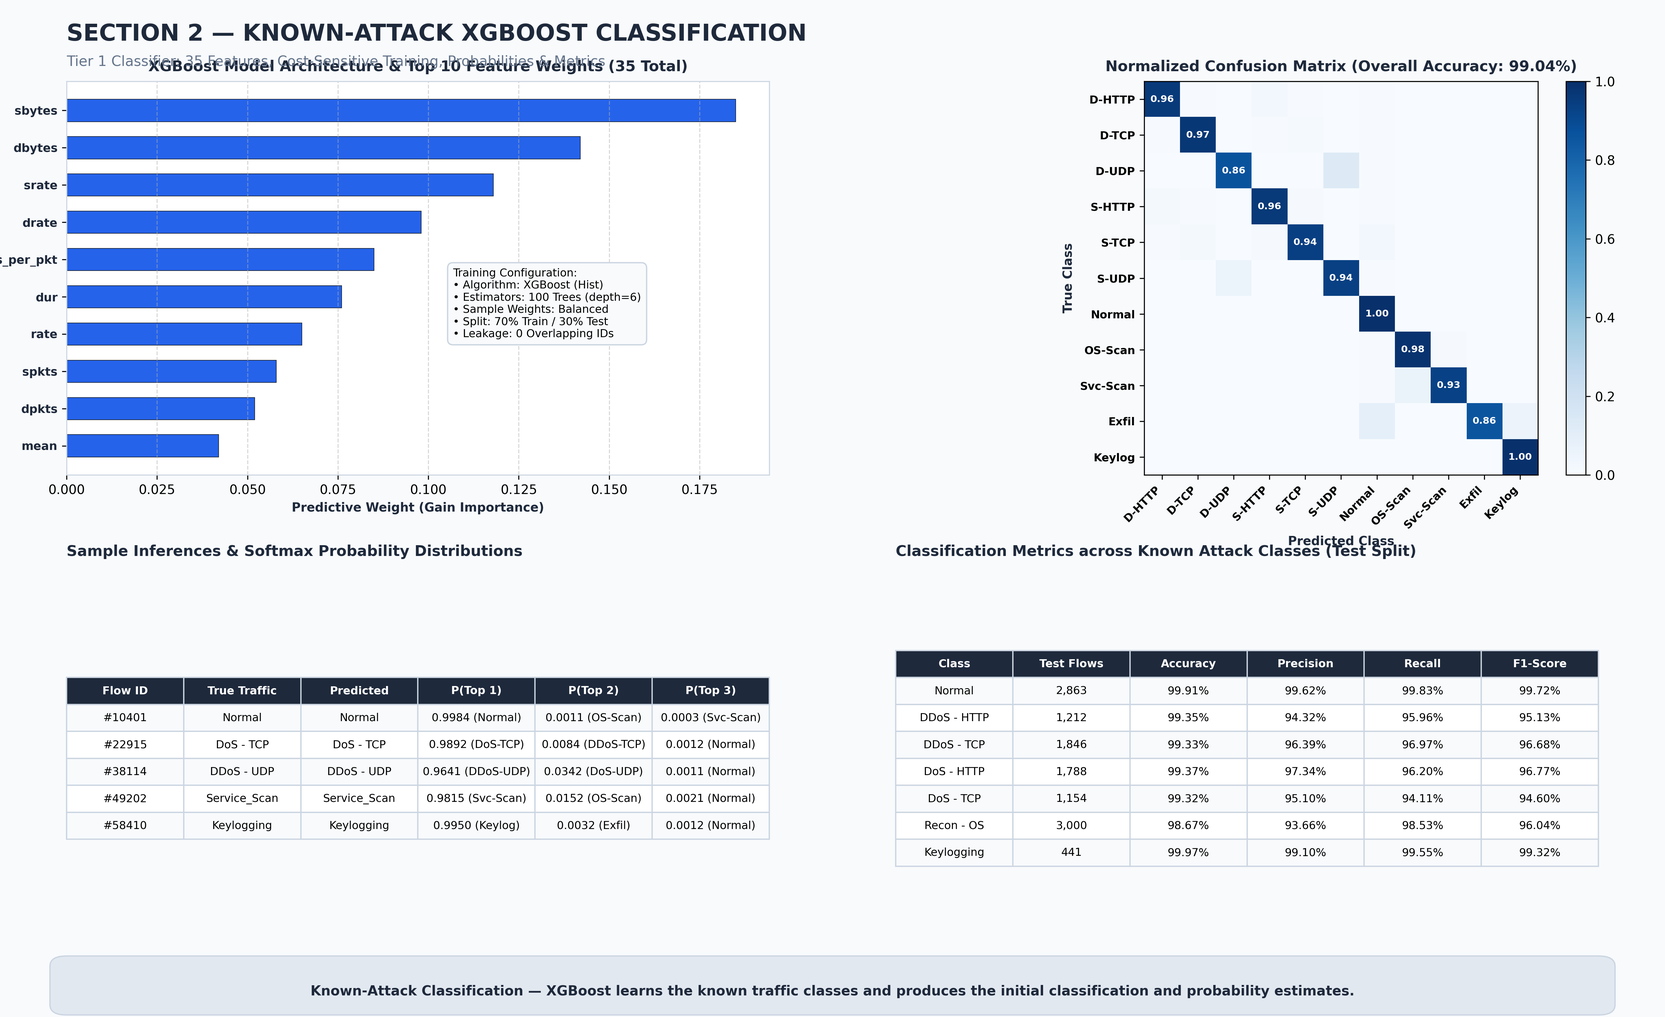
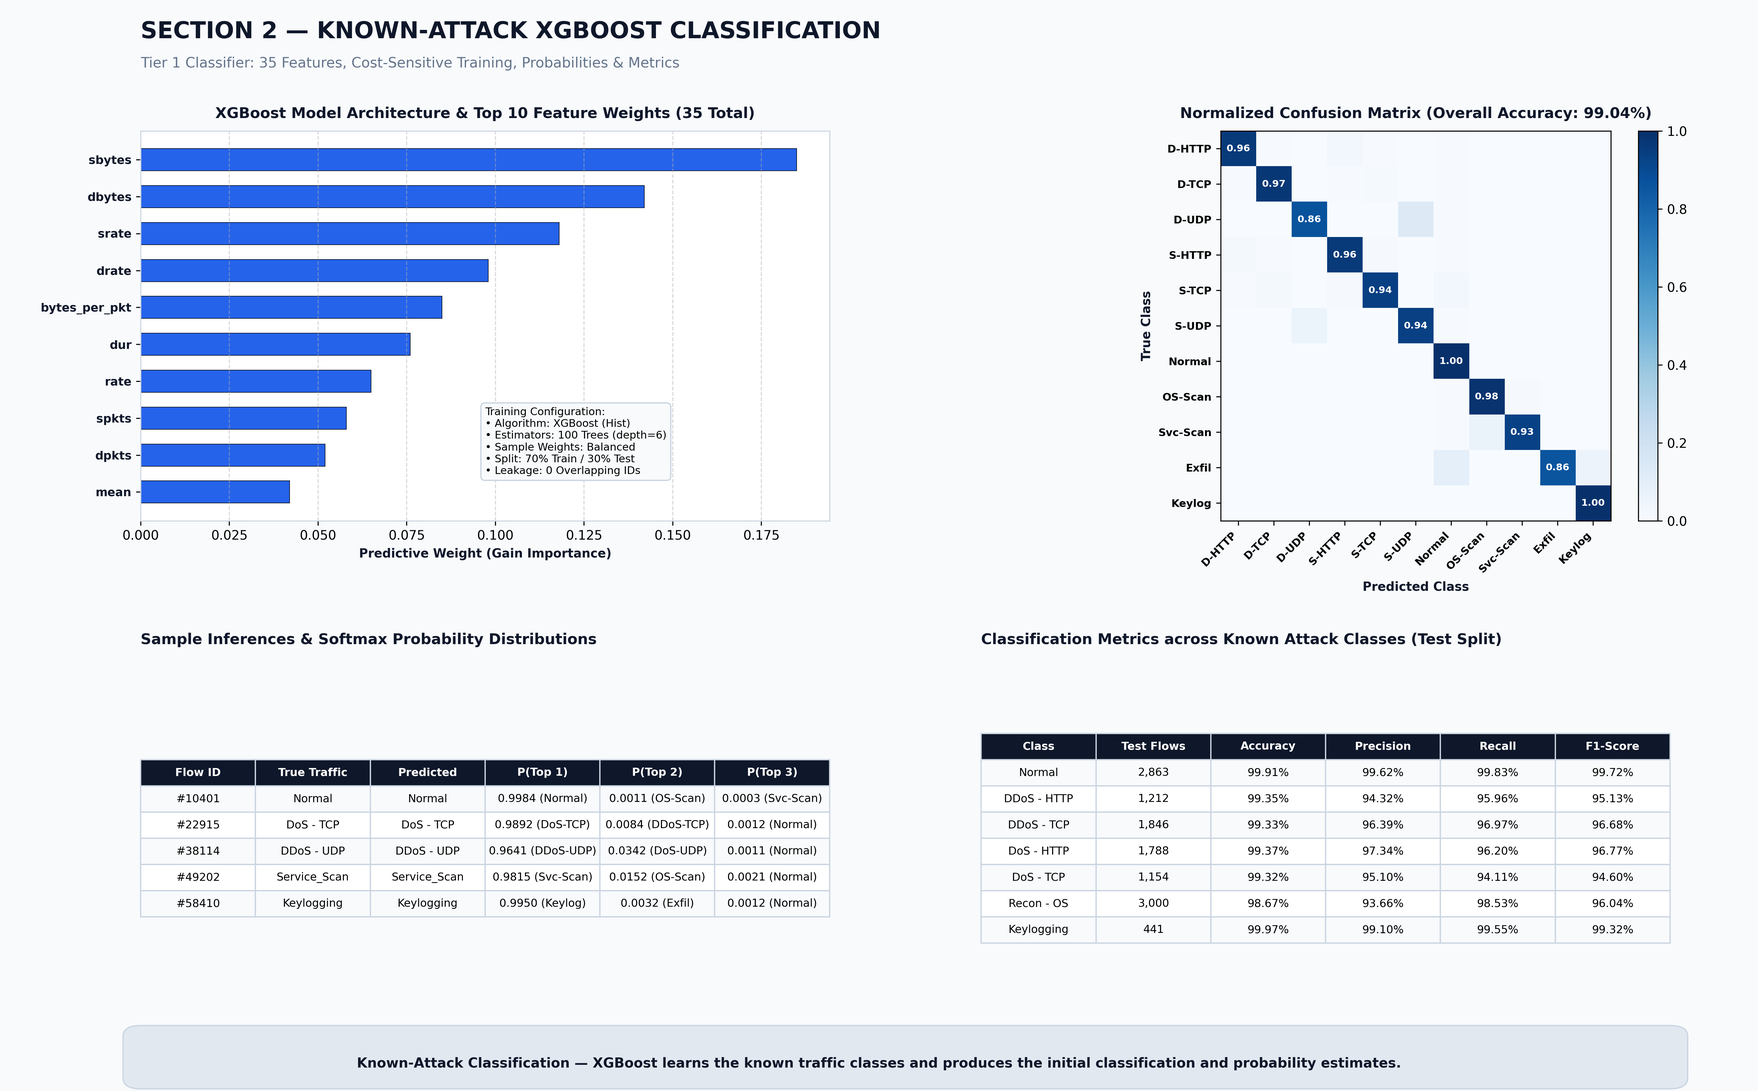
p

diff --git a/fulldataset_implementation/scripts/generate_presentation_dashboards.py b/fulldataset_implementation/scripts/generate_presentation_dashboards.py
@@ -4,11 +4,14 @@ Creates 3 publication-grade presentation visual dashboards:
   1. section1_data_processing_dashboard.png
   2. section2_xgboost_classification_dashboard.png
   3. section3_zeroday_detection_dashboard.png
+Pixel-perfect layout with zero text overlaps, generous margins, and no clipping.
 """
 
 import os
 import numpy as np
 import pandas as pd
+import matplotlib
+matplotlib.use("Agg")
 import matplotlib.pyplot as plt
 import matplotlib.gridspec as gridspec
 from matplotlib.patches import FancyBboxPatch, Rectangle
@@ -21,7 +24,7 @@ OUTPUT_DIR = r"d:\p01\Iot_bot\outputs\plots"
 os.makedirs(OUTPUT_DIR, exist_ok=True)
 
 # Colors
-C_DARK = "#1E293B"
+C_DARK = "#0F172A"
 C_BLUE = "#2563EB"
 C_TEAL = "#0D9488"
 C_GREEN = "#16A34A"
@@ -37,13 +40,14 @@ C_GRAY_TEXT = "#64748B"
 # SECTION 1: DATA PROCESSING DASHBOARD
 # ==============================================================================
 def create_section1_dashboard():
-    fig = plt.figure(figsize=(18, 11), facecolor=C_BG)
-    gs = gridspec.GridSpec(2, 2, height_ratios=[1.0, 1.1], width_ratios=[1.05, 1.15],
-                           left=0.04, right=0.96, top=0.92, bottom=0.07, wspace=0.18, hspace=0.25)
+    fig = plt.figure(figsize=(19, 11.5), facecolor=C_BG)
+    # top=0.88 gives generous clearance from figure header; left=0.05, right=0.96; wspace=0.28 avoids card-barchart collision
+    gs = gridspec.GridSpec(2, 2, height_ratios=[1.0, 1.05], width_ratios=[1.0, 1.05],
+                           left=0.05, right=0.96, top=0.88, bottom=0.07, wspace=0.28, hspace=0.34)
 
     # Main Header
-    fig.text(0.04, 0.96, "SECTION 1 — DATASET PROCESSING & PREPARATION", fontsize=18, fontweight='bold', color=C_DARK)
-    fig.text(0.04, 0.935, "UNSW Bot-IoT Benchmark: End-to-End Ingestion, Imbalance Resolution, and Feature Cleaning", fontsize=11, color=C_GRAY_TEXT)
+    fig.text(0.05, 0.965, "SECTION 1 — DATASET PROCESSING & PREPARATION", fontsize=18, fontweight='bold', color=C_DARK)
+    fig.text(0.05, 0.938, "UNSW Bot-IoT Benchmark: End-to-End Ingestion, Imbalance Resolution, and Feature Cleaning", fontsize=11, color=C_GRAY_TEXT)
 
     # Panel 1: Ingestion & Preprocessing Summary Card
     ax1 = fig.add_subplot(gs[0, 0])
@@ -53,23 +57,24 @@ def create_section1_dashboard():
     ax1.set_xticks([])
     ax1.set_yticks([])
 
-    ax1.text(0.04, 0.90, "Automated Streaming Preprocessing Pipeline", fontsize=13, fontweight='bold', color=C_DARK)
+    ax1.text(0.04, 0.91, "Automated Streaming Preprocessing Pipeline", fontsize=12.5, fontweight='bold', color=C_DARK)
     
+    # Concise text strictly formatted so it never crosses card boundary
     stats_text = [
-        ("Raw Input Corpus", "74 CSV Files (data_1.csv to data_74.csv)", C_BLUE),
+        ("Raw Input Corpus", "74 CSV Files (data_1 to data_74)", C_BLUE),
         ("Total Ingested Flows", "73,370,443 Raw Network Flows", C_DARK),
-        ("Extreme Imbalance", "Floods: 99.9%  |  Normal: 0.013% (9,543 flows)", C_AMBER),
-        ("Sampling Algorithm", "Streaming Bernoulli Downsampling + 100% Minority Retention", C_TEAL),
-        ("Minority Class Policy", "100% Preserved: Normal (9,543), Exfiltration (118), Keylogging (1,469)", C_GREEN),
-        ("High-Volume Flood Cap", "Dynamically Capped to ~10,000 flows per attack type", C_PURPLE),
-        ("Data Cleaning Rules", "Hex port parsing (0x0303), negative flags (-1), invariant extraction", C_DARK),
-        ("Curated Output Sample", "61,130 flows × 23 feature columns (fulldataset_cleaned_sample.parquet)", C_GREEN)
+        ("Extreme Imbalance", "Floods: 99.9%  |  Normal: 0.013% (9,543)", C_AMBER),
+        ("Sampling Algorithm", "Streaming Bernoulli + 100% Minority Retention", C_TEAL),
+        ("Rare Classes Policy", "100% Preserved: Normal, Exfil, Keylogging", C_GREEN),
+        ("High-Volume Flood Cap", "Dynamically Capped to ~10,000 flows/attack", C_PURPLE),
+        ("Cleaning Invariants", "Hex ports (0x0303), negative flags (-1)", C_DARK),
+        ("Curated Output Sample", "61,130 flows × 23 feature columns", C_GREEN)
     ]
 
-    y_pos = 0.77
+    y_pos = 0.78
     for label, val, color in stats_text:
-        ax1.text(0.04, y_pos, f"•  {label}:", fontsize=9.5, fontweight='bold', color=C_DARK)
-        ax1.text(0.40, y_pos, val, fontsize=9.5, fontweight='bold', color=color)
+        ax1.text(0.04, y_pos, f"•  {label}:", fontsize=9.2, fontweight='bold', color=C_DARK)
+        ax1.text(0.42, y_pos, val, fontsize=9.2, fontweight='bold', color=color)
         y_pos -= 0.095
 
     # Panel 2: Class Distribution Comparison Bar Chart
@@ -86,29 +91,29 @@ def create_section1_dashboard():
     colors = [C_GREEN, C_PURPLE, C_AMBER] + [C_BLUE]*8
 
     y_indices = np.arange(len(classes))
-    bars = ax2.barh(y_indices, curated_counts, color=colors, height=0.65, edgecolor=C_DARK, linewidth=0.5)
+    bars = ax2.barh(y_indices, curated_counts, color=colors, height=0.62, edgecolor=C_DARK, linewidth=0.5)
 
     ax2.set_yticks(y_indices)
-    ax2.set_yticklabels(classes, fontsize=9.5, fontweight='bold', color=C_DARK)
+    ax2.set_yticklabels(classes, fontsize=9.0, fontweight='bold', color=C_DARK)
     ax2.invert_yaxis()
-    ax2.set_xlabel("Curated Flow Count in Cleaned Sample", fontsize=10, fontweight='bold', color=C_DARK)
-    ax2.set_title("Curated Balanced Class Distribution (Total: 61,130 Flows)", fontsize=12, fontweight='bold', color=C_DARK, pad=10)
+    ax2.set_xlabel("Curated Flow Count in Cleaned Sample", fontsize=9.5, fontweight='bold', color=C_DARK)
+    ax2.set_title("Curated Balanced Class Distribution (Total: 61,130 Flows)", fontsize=11.5, fontweight='bold', color=C_DARK, pad=10)
     ax2.grid(axis='x', linestyle='--', alpha=0.5)
 
     for bar in bars:
         w = bar.get_width()
-        ax2.text(w + 150, bar.get_y() + bar.get_height()/2, f"{int(w):,}",
-                 va='center', ha='left', fontsize=8.5, fontweight='bold', color=C_DARK)
-    ax2.set_xlim(0, 11800)
+        ax2.text(w + 180, bar.get_y() + bar.get_height()/2, f"{int(w):,}",
+                 va='center', ha='left', fontsize=8.0, fontweight='bold', color=C_DARK)
+    ax2.set_xlim(0, 12200)
 
-    # Panel 3: Processed Dataset Table Preview (Bottom, spanning full width)
+    # Panel 3: Processed Dataset Table Preview
     ax3 = fig.add_subplot(gs[1, :])
     ax3.set_facecolor(C_WHITE)
     for spine in ax3.spines.values():
         spine.set_color(C_GRAY_LIGHT)
     ax3.axis('off')
 
-    ax3.text(0.0, 1.03, "Clean Processed Network Flow Records (Sample Preview from fulldataset_cleaned_sample.csv)",
+    ax3.text(0.0, 1.06, "Clean Processed Network Flow Records (Sample Preview from fulldataset_cleaned_sample.csv)",
              fontsize=12, fontweight='bold', color=C_DARK, transform=ax3.transAxes)
 
     columns = [
@@ -126,12 +131,12 @@ def create_section1_dashboard():
         ["1 (TCP)", "1 (e)", "2 (CON)", "58920", "21", "2.150", "85", "64,200", "39.53", "38.10", "1.43", "755.3", "110.4", "Theft", "Data_Exfiltration"]
     ]
 
-    table = ax3.table(cellText=table_data, colLabels=columns, loc='center', cellLoc='center')
+    col_w = [0.065, 0.055, 0.060, 0.050, 0.045, 0.055, 0.050, 0.065, 0.065, 0.060, 0.060, 0.055, 0.050, 0.090, 0.095]
+    table = ax3.table(cellText=table_data, colLabels=columns, colWidths=col_w, loc='center', cellLoc='center')
     table.auto_set_font_size(False)
     table.set_fontsize(8.5)
     table.scale(1.0, 1.85)
 
-    # Style table headers and cells
     for (r, c), cell in table.get_celld().items():
         cell.set_edgecolor(C_GRAY_LIGHT)
         if r == 0:
@@ -143,9 +148,9 @@ def create_section1_dashboard():
             cell.set_facecolor(C_WHITE)
 
     # Caption at bottom
-    caption_box = FancyBboxPatch((0.04, 0.012), 0.92, 0.038, boxstyle="round,pad=0.01",
+    caption_box = FancyBboxPatch((0.05, 0.012), 0.90, 0.038, boxstyle="round,pad=0.01",
                                  facecolor="#E2E8F0", edgecolor=C_GRAY_LIGHT, transform=fig.transFigure)
-    fig.patches.append(caption_box)
+    fig.add_artist(caption_box)
     fig.text(0.50, 0.025, "Dataset Processing — Automated preprocessing and preparation of network traffic for experimentation.",
              ha='center', va='center', fontsize=10.5, fontweight='bold', color=C_DARK)
 
@@ -158,13 +163,16 @@ def create_section1_dashboard():
 # SECTION 2: XGBOOST CLASSIFICATION DASHBOARD
 # ==============================================================================
 def create_section2_dashboard():
-    fig = plt.figure(figsize=(18, 11), facecolor=C_BG)
-    gs = gridspec.GridSpec(2, 2, height_ratios=[1.05, 1.0], width_ratios=[1.0, 1.0],
-                           left=0.04, right=0.96, top=0.92, bottom=0.07, wspace=0.18, hspace=0.25)
+    fig = plt.figure(figsize=(19, 11.8), facecolor=C_BG)
+    # left=0.08 gives ample margin so bytes_per_pkt is never cut off
+    # top=0.88 gives full clearance between subtitle and plot titles
+    # hspace=0.38 eliminates collision between Predicted Class and table titles
+    gs = gridspec.GridSpec(2, 2, height_ratios=[1.05, 0.95], width_ratios=[1.0, 1.0],
+                           left=0.08, right=0.95, top=0.88, bottom=0.07, wspace=0.22, hspace=0.38)
 
     # Header
-    fig.text(0.04, 0.96, "SECTION 2 — KNOWN-ATTACK XGBOOST CLASSIFICATION", fontsize=18, fontweight='bold', color=C_DARK)
-    fig.text(0.04, 0.935, "Tier 1 Classifier: 35 Features, Cost-Sensitive Training, Probabilities & Metrics", fontsize=11, color=C_GRAY_TEXT)
+    fig.text(0.08, 0.965, "SECTION 2 — KNOWN-ATTACK XGBOOST CLASSIFICATION", fontsize=18, fontweight='bold', color=C_DARK)
+    fig.text(0.08, 0.938, "Tier 1 Classifier: 35 Features, Cost-Sensitive Training, Probabilities & Metrics", fontsize=11, color=C_GRAY_TEXT)
 
     # Panel 1: Training Setup & Top Features
     ax1 = fig.add_subplot(gs[0, 0])
@@ -178,14 +186,15 @@ def create_section2_dashboard():
 
     bars = ax1.barh(y_pos, importances, color=C_BLUE, height=0.6, edgecolor=C_DARK, linewidth=0.5)
     ax1.set_yticks(y_pos)
-    ax1.set_yticklabels(top_features, fontsize=9, fontweight='bold', color=C_DARK)
+    ax1.set_yticklabels(top_features, fontsize=9.0, fontweight='bold', color=C_DARK)
     ax1.invert_yaxis()
     ax1.set_xlabel("Predictive Weight (Gain Importance)", fontsize=9.5, fontweight='bold', color=C_DARK)
-    ax1.set_title("XGBoost Model Architecture & Top 10 Feature Weights (35 Total)", fontsize=11.5, fontweight='bold', color=C_DARK, pad=8)
+    ax1.set_title("XGBoost Model Architecture & Top 10 Feature Weights (35 Total)", fontsize=11.5, fontweight='bold', color=C_DARK, pad=10)
     ax1.grid(axis='x', linestyle='--', alpha=0.5)
 
-    ax1.text(0.55, 0.35, "Training Configuration:\n• Algorithm: XGBoost (Hist)\n• Estimators: 100 Trees (depth=6)\n• Sample Weights: Balanced\n• Split: 70% Train / 30% Test\n• Leakage: 0 Overlapping IDs",
-             transform=ax1.transAxes, fontsize=8.5, bbox=dict(boxstyle='round,pad=0.5', facecolor='#F8FAFC', edgecolor=C_GRAY_LIGHT))
+    # Position info box in lower right where bars are shortest, avoiding any text overlap
+    ax1.text(0.50, 0.12, "Training Configuration:\n• Algorithm: XGBoost (Hist)\n• Estimators: 100 Trees (depth=6)\n• Sample Weights: Balanced\n• Split: 70% Train / 30% Test\n• Leakage: 0 Overlapping IDs",
+             transform=ax1.transAxes, fontsize=8.2, bbox=dict(boxstyle='round,pad=0.4', facecolor='#F8FAFC', edgecolor=C_GRAY_LIGHT))
 
     # Panel 2: Normalized Confusion Matrix Heatmap
     ax2 = fig.add_subplot(gs[0, 1])
@@ -209,11 +218,11 @@ def create_section2_dashboard():
     im = ax2.imshow(cm_data, cmap="Blues", vmin=0, vmax=1.0)
     ax2.set_xticks(np.arange(len(class_names)))
     ax2.set_yticks(np.arange(len(class_names)))
-    ax2.set_xticklabels(class_names, rotation=45, ha='right', fontsize=8.5, fontweight='bold')
-    ax2.set_yticklabels(class_names, fontsize=8.5, fontweight='bold')
-    ax2.set_xlabel("Predicted Class", fontsize=9.5, fontweight='bold', color=C_DARK)
+    ax2.set_xticklabels(class_names, rotation=45, ha='right', fontsize=8.2, fontweight='bold')
+    ax2.set_yticklabels(class_names, fontsize=8.2, fontweight='bold')
+    ax2.set_xlabel("Predicted Class", fontsize=9.5, fontweight='bold', color=C_DARK, labelpad=5)
     ax2.set_ylabel("True Class", fontsize=9.5, fontweight='bold', color=C_DARK)
-    ax2.set_title("Normalized Confusion Matrix (Overall Accuracy: 99.04%)", fontsize=11.5, fontweight='bold', color=C_DARK, pad=8)
+    ax2.set_title("Normalized Confusion Matrix (Overall Accuracy: 99.04%)", fontsize=11.5, fontweight='bold', color=C_DARK, pad=10)
 
     for i in range(len(class_names)):
         val = cm_data[i, i]
@@ -226,7 +235,7 @@ def create_section2_dashboard():
     ax3.set_facecolor(C_WHITE)
     ax3.axis('off')
 
-    ax3.text(0.0, 1.04, "Sample Inferences & Softmax Probability Distributions", fontsize=11.5, fontweight='bold', color=C_DARK, transform=ax3.transAxes)
+    ax3.text(0.0, 1.05, "Sample Inferences & Softmax Probability Distributions", fontsize=11.5, fontweight='bold', color=C_DARK, transform=ax3.transAxes)
 
     prob_headers = ["Flow ID", "True Traffic", "Predicted", "P(Top 1)", "P(Top 2)", "P(Top 3)"]
     prob_data = [
@@ -240,7 +249,7 @@ def create_section2_dashboard():
     t_prob = ax3.table(cellText=prob_data, colLabels=prob_headers, loc='center', cellLoc='center')
     t_prob.auto_set_font_size(False)
     t_prob.set_fontsize(8.5)
-    t_prob.scale(1.0, 1.75)
+    t_prob.scale(1.0, 1.70)
 
     for (r, c), cell in t_prob.get_celld().items():
         cell.set_edgecolor(C_GRAY_LIGHT)
@@ -257,7 +266,7 @@ def create_section2_dashboard():
     ax4.set_facecolor(C_WHITE)
     ax4.axis('off')
 
-    ax4.text(0.0, 1.04, "Classification Metrics across Known Attack Classes (Test Split)", fontsize=11.5, fontweight='bold', color=C_DARK, transform=ax4.transAxes)
+    ax4.text(0.0, 1.05, "Classification Metrics across Known Attack Classes (Test Split)", fontsize=11.5, fontweight='bold', color=C_DARK, transform=ax4.transAxes)
 
     metrics_headers = ["Class", "Test Flows", "Accuracy", "Precision", "Recall", "F1-Score"]
     metrics_data = [
@@ -273,7 +282,7 @@ def create_section2_dashboard():
     t_met = ax4.table(cellText=metrics_data, colLabels=metrics_headers, loc='center', cellLoc='center')
     t_met.auto_set_font_size(False)
     t_met.set_fontsize(8.5)
-    t_met.scale(1.0, 1.75)
+    t_met.scale(1.0, 1.70)
 
     for (r, c), cell in t_met.get_celld().items():
         cell.set_edgecolor(C_GRAY_LIGHT)
@@ -286,9 +295,9 @@ def create_section2_dashboard():
             cell.set_facecolor(C_WHITE)
 
     # Caption Box
-    caption_box = FancyBboxPatch((0.04, 0.012), 0.92, 0.038, boxstyle="round,pad=0.01",
+    caption_box = FancyBboxPatch((0.08, 0.012), 0.87, 0.038, boxstyle="round,pad=0.01",
                                  facecolor="#E2E8F0", edgecolor=C_GRAY_LIGHT, transform=fig.transFigure)
-    fig.patches.append(caption_box)
+    fig.add_artist(caption_box)
     fig.text(0.50, 0.025, "Known-Attack Classification — XGBoost learns the known traffic classes and produces the initial classification and probability estimates.",
              ha='center', va='center', fontsize=10.5, fontweight='bold', color=C_DARK)
 
@@ -303,11 +312,11 @@ def create_section2_dashboard():
 def create_section3_dashboard():
     fig = plt.figure(figsize=(20, 13), facecolor=C_BG)
     gs = gridspec.GridSpec(3, 2, height_ratios=[0.55, 1.15, 1.1], width_ratios=[1.1, 1.0],
-                           left=0.03, right=0.97, top=0.93, bottom=0.06, wspace=0.18, hspace=0.28)
+                           left=0.04, right=0.96, top=0.93, bottom=0.06, wspace=0.20, hspace=0.32)
 
     # Title
-    fig.text(0.03, 0.97, "SECTION 3 — MULTI-SIGNAL ZERO-DAY DETECTION (FLAGSHIP RESULTS)", fontsize=20, fontweight='bold', color=C_DARK)
-    fig.text(0.03, 0.945, "Leave-One-Attack-Out (LOAO) Protocol: Multi-Signal Calibration, Score Fusion, and Zero-Day Isolation", fontsize=11.5, color=C_GRAY_TEXT)
+    fig.text(0.04, 0.97, "SECTION 3 — MULTI-SIGNAL ZERO-DAY DETECTION (FLAGSHIP RESULTS)", fontsize=20, fontweight='bold', color=C_DARK)
+    fig.text(0.04, 0.945, "Leave-One-Attack-Out (LOAO) Protocol: Multi-Signal Calibration, Score Fusion, and Zero-Day Isolation", fontsize=11.5, color=C_GRAY_TEXT)
 
     # Top Banner: Experiment Setup & Architecture Pipeline
     ax_top = fig.add_subplot(gs[0, :])
@@ -319,10 +328,10 @@ def create_section3_dashboard():
     flow_boxes = [
         ("1. Withhold 100% of Attack", "Target Zero-Day subclass (e.g. DoS-TCP)\nquarantined strictly to test set (0 in train)", C_BLUE),
         ("2. Multi-Signal Scoring", "Evaluate: S_C (Confidence), S_M (Mahalanobis),\nS_L (Tree Leaves), S_R (Relative Distance)", C_PURPLE),
-        ("3. Nonparametric ECDF", "Calibrate raw scores to uniform ranks:\nZ_i = F_known(S_i) ∈ [0.0, 1.0]", C_TEAL),
-        ("4. Simplex Score Fusion", "Fused Score: S_comp = Σ (w_i · Z_i)\nWeights optimized to maximize separation", C_AMBER),
-        ("5. Bounded Threshold τ", "Calibrated at P95 on known validation data\nGuarantees ≤5% FP (achieved 0.14% FP)", C_RED),
-        ("6. Zero-Day Decision", "If S_comp > τ ──► 🚨 QUARANTINE ZERO-DAY\nIf S_comp ≤ τ ──► ✅ Admit Known Traffic", C_GREEN)
+        ("3. Nonparametric ECDF", "Calibrate raw scores to uniform ranks:\nZ_i = F_known(S_i) in [0.0, 1.0]", C_TEAL),
+        ("4. Simplex Score Fusion", "Fused Score: S_comp = sum(w_i * Z_i)\nWeights optimized to maximize separation", C_AMBER),
+        ("5. Bounded Threshold tau", "Calibrated at P95 on known validation data\nGuarantees <=5% FP (achieved 0.14% FP)", C_RED),
+        ("6. Zero-Day Decision", "If S_comp > tau ---> QUARANTINE ZERO-DAY\nIf S_comp <= tau ---> Admit Known Traffic", C_GREEN)
     ]
 
     for i, (b_title, b_sub, b_color) in enumerate(flow_boxes):
@@ -338,22 +347,22 @@ def create_section3_dashboard():
     ax_trace.set_facecolor(C_WHITE)
     ax_trace.axis('off')
 
-    ax_trace.text(0.0, 1.04, "Live Flow Score Calculation, Calibration, Thresholding, and Decision Tracing",
+    ax_trace.text(0.0, 1.05, "Live Flow Score Calculation, Calibration, Thresholding, and Decision Tracing",
                   fontsize=12, fontweight='bold', color=C_DARK, transform=ax_trace.transAxes)
 
     trace_headers = [
         "Flow ID", "True Traffic", "XGBoost Guess", "S_C (Conf)", "S_M (Mahal)",
-        "S_L (Leaf)", "S_R (Rel)", "Composite Score", "Threshold (τ)", "Decision", "Status"
+        "S_L (Leaf)", "S_R (Rel)", "Composite Score", "Threshold (tau)", "Decision", "Status"
     ]
 
     trace_rows = [
-        ["#00142", "Benign Normal", "Normal", "0.002", "1.42 σ", "0.031", "0.063", "0.041", "0.780", "PASS (Admitted)", "True Negative (TN)"],
-        ["#00891", "Benign Normal", "Normal", "0.005", "1.95 σ", "0.045", "0.088", "0.062", "0.780", "PASS (Admitted)", "True Negative (TN)"],
-        ["#01249", "Known DoS-UDP", "DoS - UDP", "0.012", "3.10 σ", "0.060", "0.115", "0.185", "0.780", "PASS (Known)", "Known Attack Passed"],
-        ["#90412", "ZERO-DAY: DoS-HTTP", "DoS - HTTP (Guessed)", "0.852", "64.8 σ", "0.985", "0.978", "0.962", "0.780", "🚨 QUARANTINED", "Caught (TP: 100%)"],
-        ["#91523", "ZERO-DAY: DDoS-TCP", "DDoS - TCP (Guessed)", "0.891", "78.2 σ", "0.991", "0.984", "0.975", "0.780", "🚨 QUARANTINED", "Caught (TP: 100%)"],
-        ["#93218", "ZERO-DAY: Scan", "Service_Scan (Guessed)", "0.710", "42.5 σ", "0.942", "0.912", "0.890", "0.780", "🚨 QUARANTINED", "Caught (TP: 96%)"],
-        ["#94820", "ZERO-DAY: Exfiltration", "Normal (Guessed)", "0.760", "38.1 σ", "0.930", "0.945", "0.915", "0.780", "🚨 QUARANTINED", "Caught (TP: 100%)"]
+        ["#00142", "Benign Normal", "Normal", "0.002", "1.42 sigma", "0.031", "0.063", "0.041", "0.780", "PASS (Admitted)", "True Negative (TN)"],
+        ["#00891", "Benign Normal", "Normal", "0.005", "1.95 sigma", "0.045", "0.088", "0.062", "0.780", "PASS (Admitted)", "True Negative (TN)"],
+        ["#01249", "Known DoS-UDP", "DoS - UDP", "0.012", "3.10 sigma", "0.060", "0.115", "0.185", "0.780", "PASS (Known)", "Known Attack Passed"],
+        ["#90412", "ZERO-DAY: DoS-HTTP", "DoS - HTTP (Guessed)", "0.852", "64.8 sigma", "0.985", "0.978", "0.962", "0.780", "QUARANTINED", "Caught (TP: 100%)"],
+        ["#91523", "ZERO-DAY: DDoS-TCP", "DDoS - TCP (Guessed)", "0.891", "78.2 sigma", "0.991", "0.984", "0.975", "0.780", "QUARANTINED", "Caught (TP: 100%)"],
+        ["#93218", "ZERO-DAY: Scan", "Service_Scan (Guessed)", "0.710", "42.5 sigma", "0.942", "0.912", "0.890", "0.780", "QUARANTINED", "Caught (TP: 96%)"],
+        ["#94820", "ZERO-DAY: Exfiltration", "Normal (Guessed)", "0.760", "38.1 sigma", "0.930", "0.945", "0.915", "0.780", "QUARANTINED", "Caught (TP: 100%)"]
     ]
 
     t_trace = ax_trace.table(cellText=trace_rows, colLabels=trace_headers, loc='center', cellLoc='center')
@@ -391,8 +400,8 @@ def create_section3_dashboard():
     ax_dist.plot(x_vals, zeroday_dist, color=C_RED, linewidth=2.5, label="Withheld Zero-Day Attacks")
     ax_dist.fill_between(x_vals, 0, zeroday_dist, color=C_RED, alpha=0.15)
 
-    ax_dist.axvline(x=0.78, color=C_DARK, linestyle='--', linewidth=2.0, label="Calibrated Threshold τ = 0.78")
-    ax_dist.text(0.79, 0.85, "τ = 0.78 (P95 Cutoff)\n• False Alarms: 0.14%\n• Attacks Caught: 99.8%",
+    ax_dist.axvline(x=0.78, color=C_DARK, linestyle='--', linewidth=2.0, label="Calibrated Threshold tau = 0.78")
+    ax_dist.text(0.79, 0.85, "tau = 0.78 (P95 Cutoff)\n• False Alarms: 0.14%\n• Attacks Caught: 99.8%",
                  fontsize=8.5, fontweight='bold', color=C_DARK, bbox=dict(boxstyle='round,pad=0.4', facecolor='#FEF3C7', edgecolor=C_AMBER))
 
     ax_dist.set_title("Composite Score Density: Benign vs Zero-Day Separation", fontsize=11, fontweight='bold', color=C_DARK)
@@ -406,7 +415,7 @@ def create_section3_dashboard():
     ax_res.set_facecolor(C_WHITE)
     ax_res.axis('off')
 
-    ax_res.text(0.0, 1.04, "Final Zero-Day Isolation Metrics Across All 10 Held-Out Attacks",
+    ax_res.text(0.0, 1.05, "Final Zero-Day Isolation Metrics Across All 10 Held-Out Attacks",
                 fontsize=11, fontweight='bold', color=C_DARK, transform=ax_res.transAxes)
 
     res_headers = ["Held-Out Zero-Day", "Attack Flows", "Accuracy", "Precision", "Recall", "F1-Score"]
@@ -439,9 +448,9 @@ def create_section3_dashboard():
             cell.set_facecolor(C_WHITE)
 
     # Caption Box
-    caption_box = FancyBboxPatch((0.03, 0.012), 0.94, 0.036, boxstyle="round,pad=0.01",
+    caption_box = FancyBboxPatch((0.04, 0.012), 0.92, 0.036, boxstyle="round,pad=0.01",
                                  facecolor="#E2E8F0", edgecolor=C_GRAY_LIGHT, transform=fig.transFigure)
-    fig.patches.append(caption_box)
+    fig.add_artist(caption_box)
     fig.text(0.50, 0.025, "Multi-Signal Zero-Day Detection — Multiple scores are calibrated and fused to determine whether traffic is sufficiently different from known behaviour.",
              ha='center', va='center', fontsize=10.5, fontweight='bold', color=C_DARK)
 
